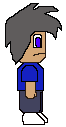
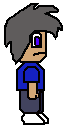
Update

diff --git a/Pygame.py b/Pygame.py
@@ -3,6 +3,9 @@ from pygame.locals import *
 
 pygame.init()
 
+FPS = 60
+fpsClock = pygame.time.Clock()
+
 screen_width = 1000
 screen_height = 1000
 
@@ -16,6 +19,50 @@ tile_size = 50
 sun_img = pygame.image.load('img/sun.png')
 bg_img = pygame.image.load('img/sky.png')
 bdr1_img = pygame.image.load('img/bdr2.png')
+
+class Player():
+    def __init__(self, x, y):
+        img = pygame.image.load('img/guy1.png')
+        self.image = pygame.transform.scale(img, (40, 80))
+        self.rect = self.image.get_rect()
+        self.rect.x = x
+        self.rect.y = y
+        self.vel_y = 0
+        self.jumped = False
+
+    def update(self):
+        dx = 0
+        dy = 0
+
+        # Get key presses
+        key = pygame.key.get_pressed()
+        if key[pygame.K_SPACE] and self.jumped == False:
+            self.vel_y = -15
+            self.jumped = True
+        if key[pygame.K_SPACE] == False:
+            self.jumped = False
+        if key[pygame.K_LEFT]:
+            dx -= 5
+        if key[pygame.K_RIGHT]:
+            dx += 5
+
+        # Add gravity
+        self.vel_y += 1
+        if self.vel_y > 10:
+            self.vel_y = 10
+        dy += self.vel_y                
+        # Check for collision
+
+        # Update player coordinates
+        self.rect.x += dx
+        self.rect.y += dy
+
+        if self.rect.bottom > screen_height:
+            self.rect.bottom = screen_height
+            dy = 0
+
+        # Draw player onto screen
+        screen.blit(self.image, self.rect)
 
 class World():
     def __init__(self, data):
@@ -81,6 +128,7 @@ world_data = [
 [2, 2, 2, 2, 1, 1, 1, 1, 1, 1, 1, 1, 1, 1, 1, 1, 1, 1, 1, 1]
 ]
 
+player = Player(100, screen_height - 130)
 world = World(world_data)
 
 run = True
@@ -90,11 +138,14 @@ while run == True:
     screen.blit(sun_img, (100, 100))
 
     world.draw()
+    
+    player.update()
 
     for event in pygame.event.get():
         if event.type == pygame.QUIT:
             run = False
 
     pygame.display.update()
+    fpsClock.tick(FPS)
 
 pygame.quit()
